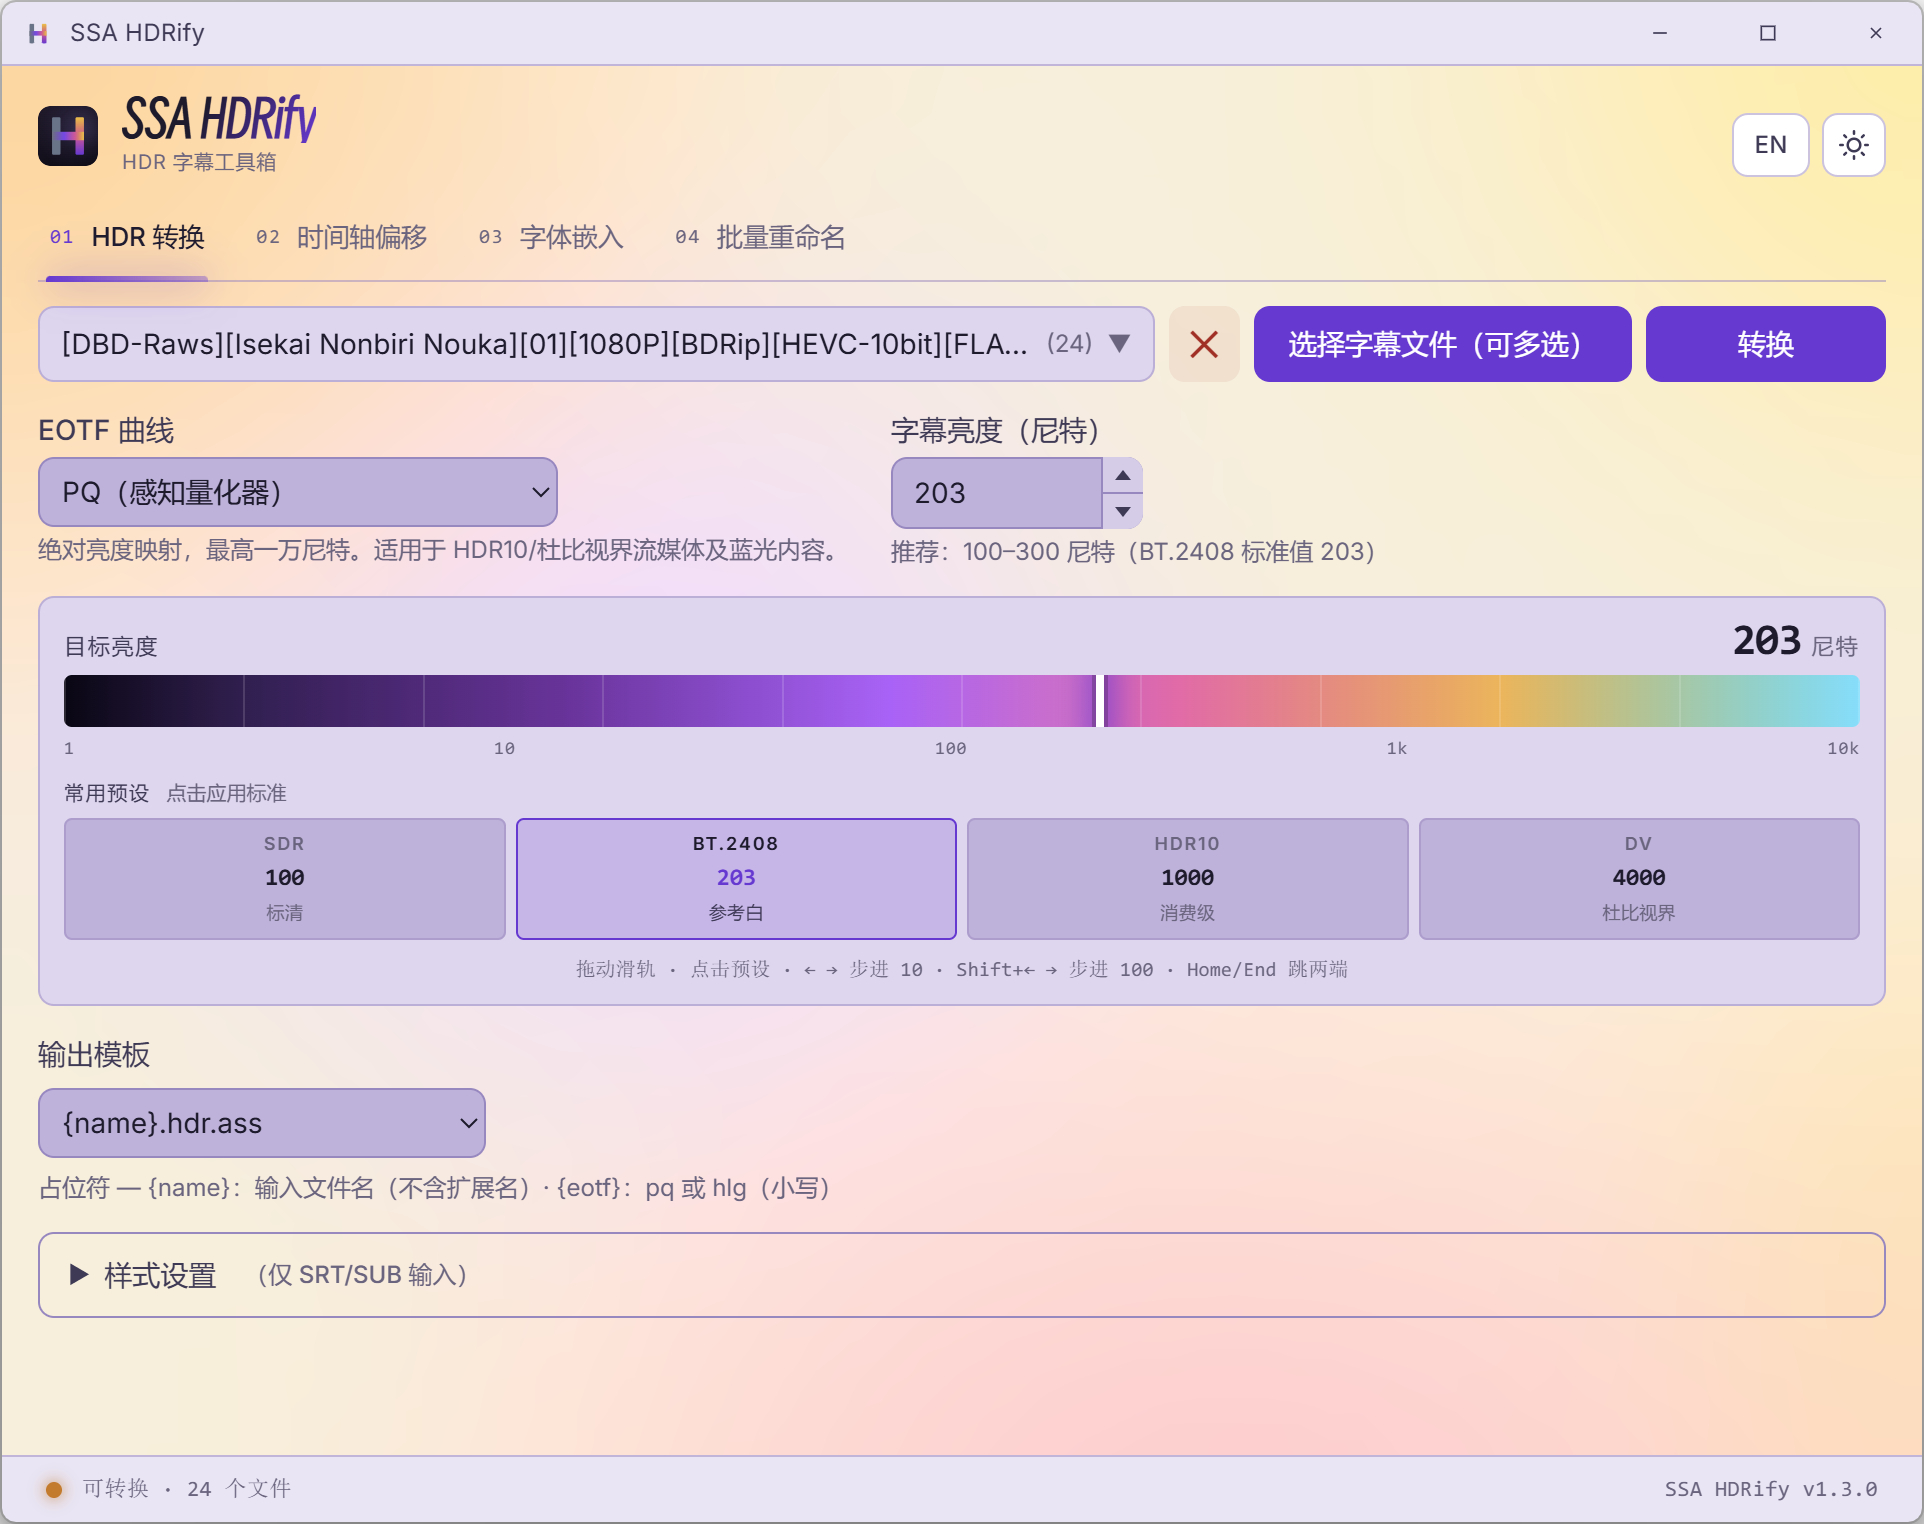
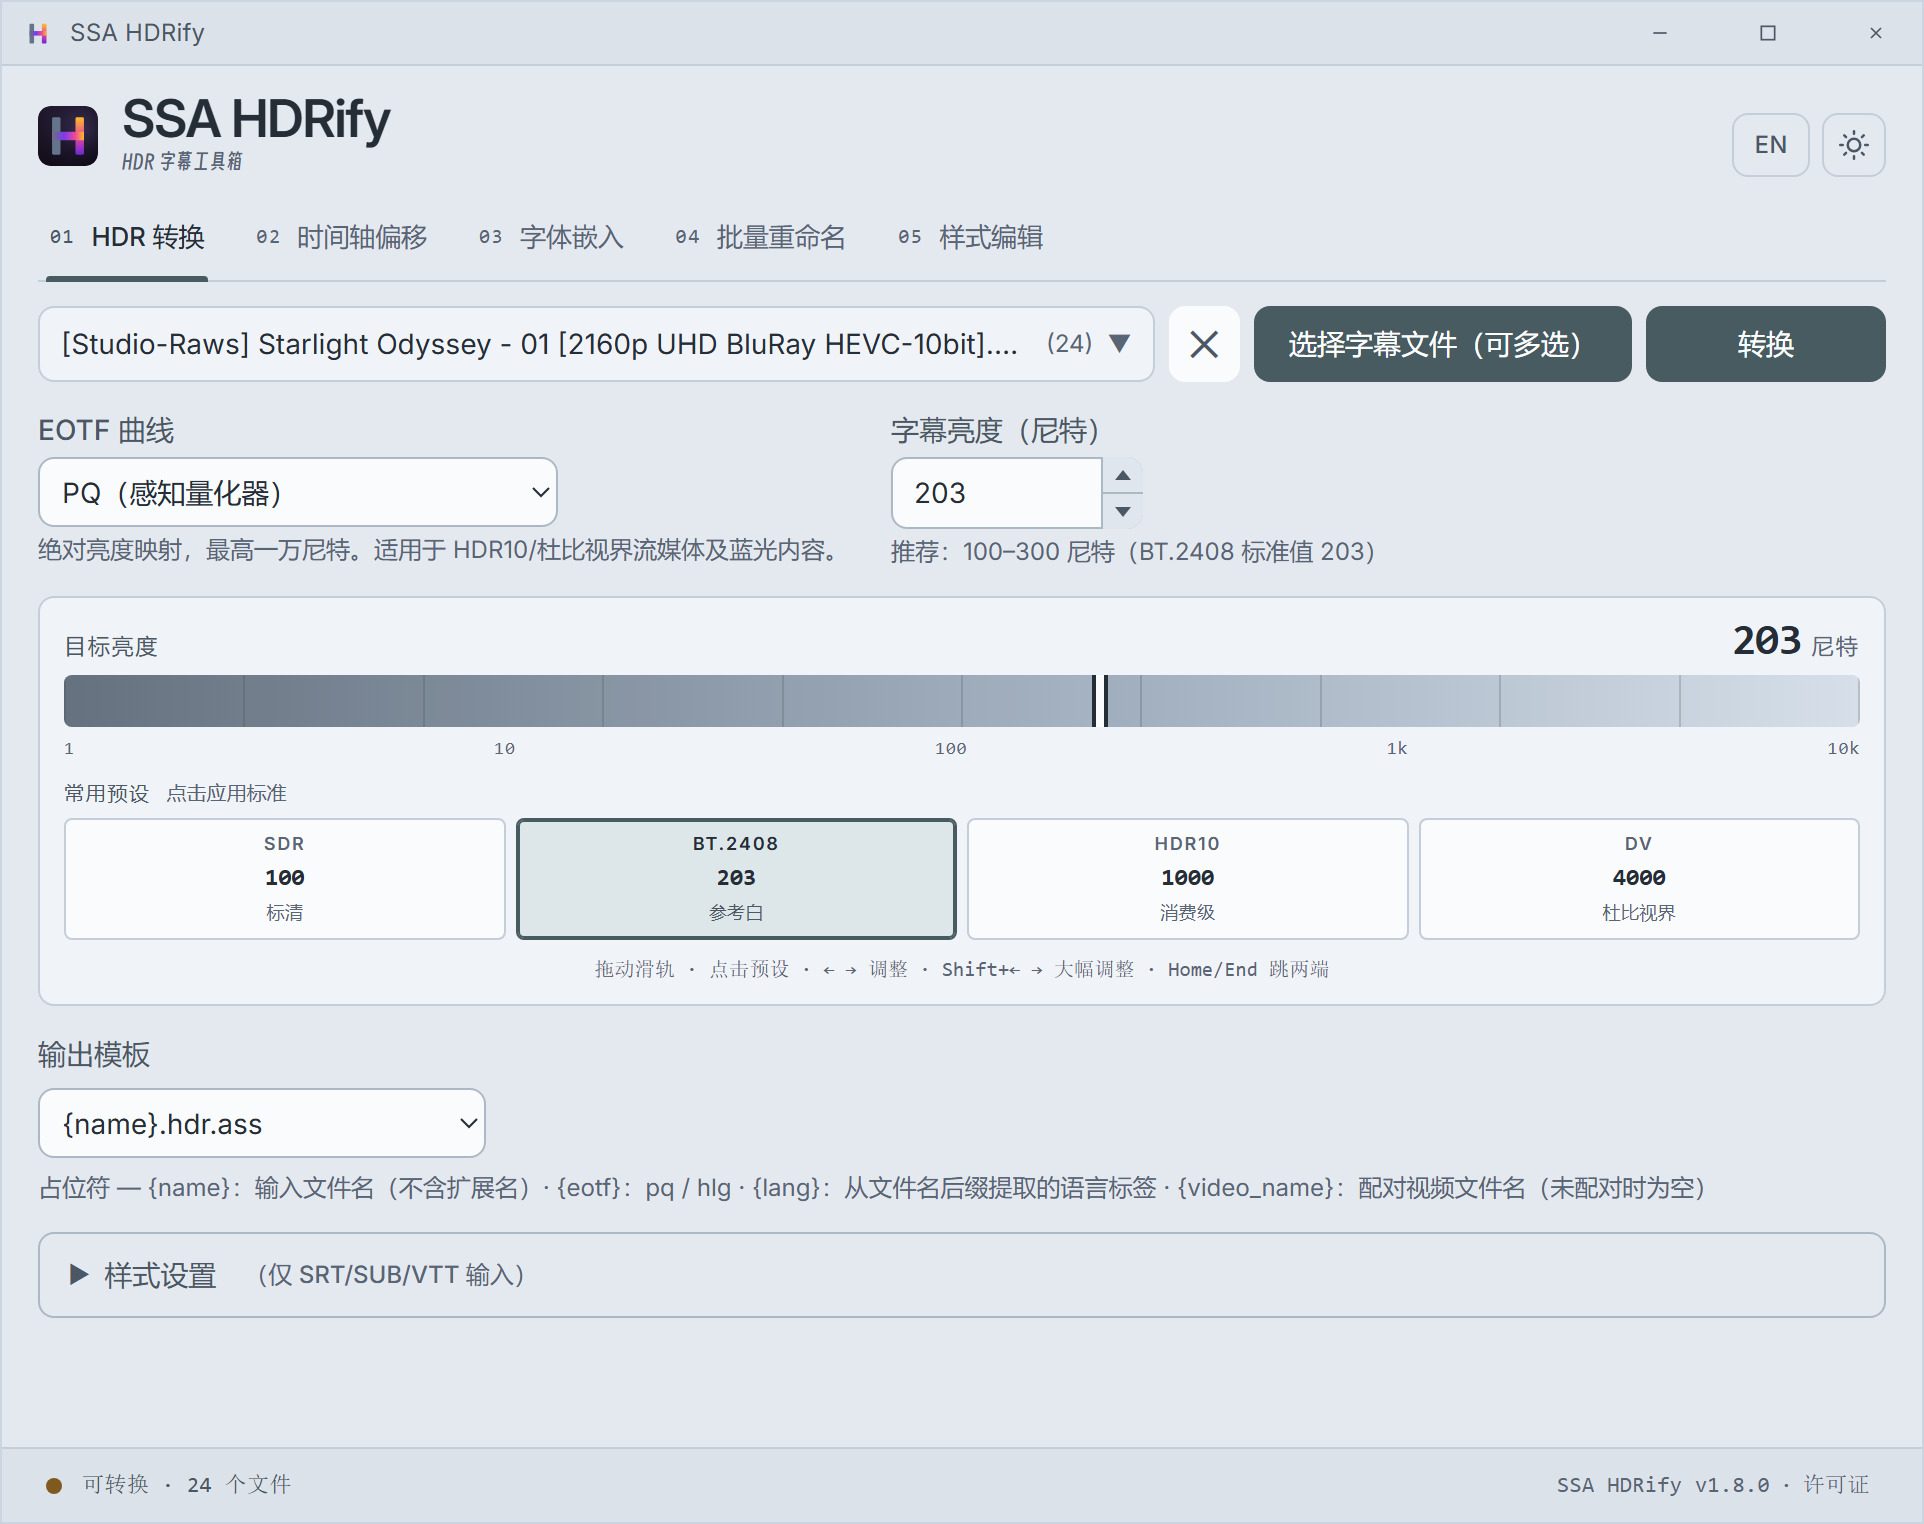
刷新 README 全五页中英文冷灰主题界面截图并移除旧配色说明

diff --git a/README.md b/README.md
@@ -22,8 +22,6 @@ This is a Tauri rewrite of the original Python [gky99/ssaHdrify](https://github.
 
 ### 界面预览 | Screenshots
 
-以下截图展示较早版本的配色。/ These screenshots show an earlier version's colors.
-
 |                                      深色主题（英文）/ Dark Theme (English)                                      |                                浅色主题（中文）/ Light Theme (Chinese)                                 |
 | :--------------------------------------------------------------------------------------------------------------: | :----------------------------------------------------------------------------------------------------: |
 | <img src="docs/screenshots/hdr-convert-dark-en.jpg" alt="HDR conversion in the English dark theme" width="450"/> | <img src="docs/screenshots/hdr-convert-light-zh.jpg" alt="中文浅色主题下的 HDR 转换界面" width="450"/> |
@@ -36,6 +34,7 @@ This is a Tauri rewrite of the original Python [gky99/ssaHdrify](https://github.
 | <img src="docs/screenshots/timing-shift-dark-en.jpg" alt="Timing shift in the English dark theme" width="450"/> | <img src="docs/screenshots/timing-shift-light-zh.jpg" alt="中文浅色主题下的时间轴偏移界面" width="450"/> |
 | <img src="docs/screenshots/font-embed-dark-en.jpg" alt="Font embedding in the English dark theme" width="450"/> |   <img src="docs/screenshots/font-embed-light-zh.jpg" alt="中文浅色主题下的字体嵌入界面" width="450"/>   |
 | <img src="docs/screenshots/batch-rename-dark-en.jpg" alt="Batch rename in the English dark theme" width="450"/> | <img src="docs/screenshots/batch-rename-light-zh.jpg" alt="中文浅色主题下的批量重命名界面" width="450"/> |
+|   <img src="docs/screenshots/style-edit-dark-en.jpg" alt="Style edit in the English dark theme" width="450"/>   |   <img src="docs/screenshots/style-edit-light-zh.jpg" alt="中文浅色主题下的样式编辑界面" width="450"/>   |
 
 </details>
 
